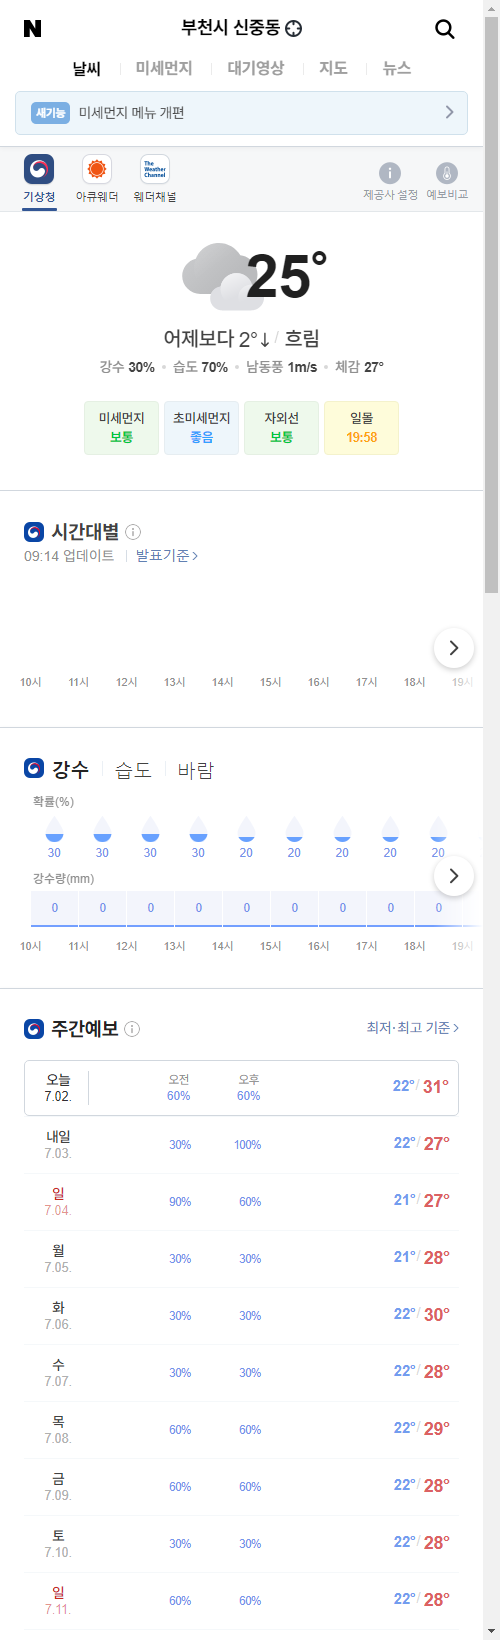
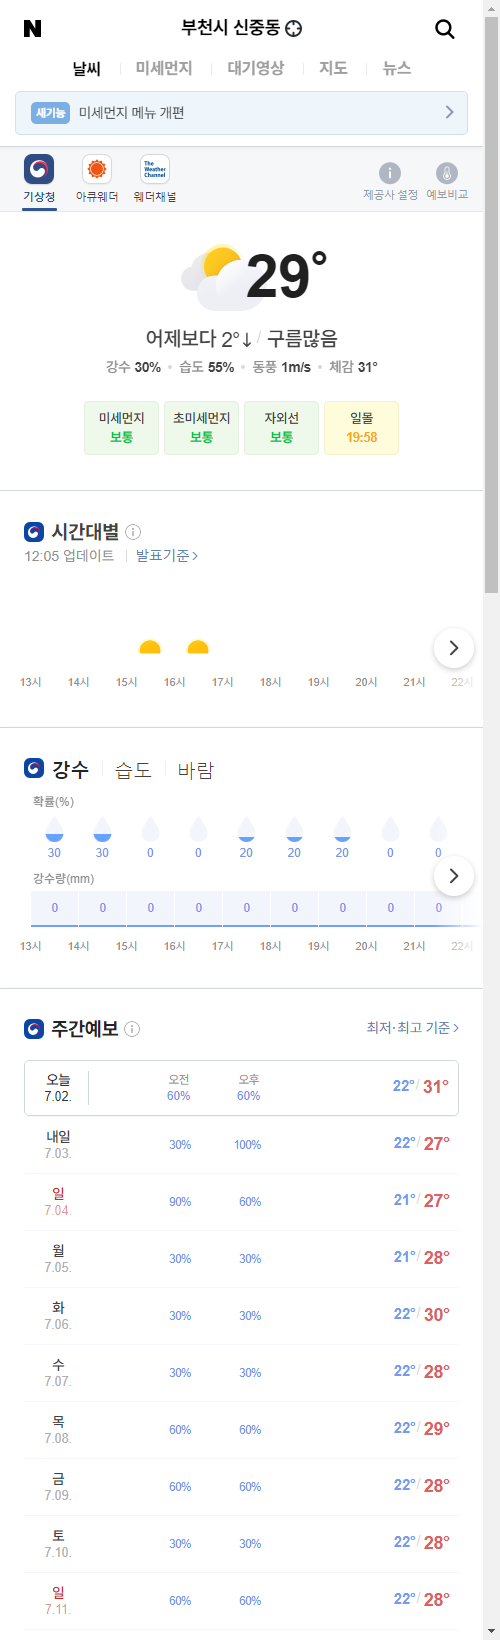
update result

diff --git a/README.md b/README.md
@@ -1,5 +1,5 @@
-##  2021-07-02 09:17:30   금요일 
-##### 날씨   -   어제보다 2° 낮아요흐림  
+##  2021-07-02 12:07:53   금요일 
+##### 날씨   -   어제보다 2° 낮아요구름많음  
 <center><img src="../img/naver_weather_week.png"></center>
 ----
 ----
@@ -16,14 +16,14 @@
 <tr align = "right" > <td>DOW</td><td>34,633.53</td><td>131.02</td><td><font size="3" color="red" >0.38%</font></td><td><font size="3" color="black">0</font></td><td><font size="3" color="black">0</font></td><td>0</td>  </tr>
 <tr align = "right" > <td>NASDAQ</td><td>14,522.38</td><td>18.43</td><td><font size="3" color="red" >0.13%</font></td><td><font size="3" color="black">0</font></td><td><font size="3" color="black">0</font></td><td>0</td>  </tr>
 <tr align = "right" > <td>S&P</td><td>4,319.94</td><td>22.44</td><td><font size="3" color="red" >0.52%</font></td><td><font size="3" color="black">0</font></td><td><font size="3" color="black">0</font></td><td>0</td>  </tr>
-<tr align = "right" > <td>SHANHAI</td><td>3,588.78</td><td>-2.41</td><td><font size="3" color="blue" >-0.07%</font></td><td><font size="3" color="black">0</font></td><td><font size="3" color="black">0</font></td><td>0</td>  </tr>
+<tr align = "right" > <td>SHANHAI</td><td>3,536.99</td><td>-51.79</td><td><font size="3" color="blue" >-1.44%</font></td><td><font size="3" color="black">0</font></td><td><font size="3" color="black">0</font></td><td>0</td>  </tr>
 <tr align = "right" > <td>INDIA</td><td>52,318.6</td><td>-164.11</td><td><font size="3" color="blue" >-0.31%</font></td><td><font size="3" color="black">0</font></td><td><font size="3" color="black">0</font></td><td>0</td>  </tr>
 </table>
 ----
 ##### 시장
 <table border="1" bordercolor="blue" align = "center" >
 <tr align = "right" > <td>Item</td><td>Price</td><td>Diff</td><td>Rate</td><td>Buy</td><td>Sell</td><td>...</td>  </tr>
-<tr align = "right" > <td>USD</td><td>1,135.0</td><td>2.0</td><td><font size="3" color="red">0.18%</font></td><td><font size="3" color="black">1,110</font></td><td><font size="3" color="black">0</font></td><td>0</td>  </tr>
+<tr align = "right" > <td>USD</td><td>1,134.0</td><td>1.8</td><td><font size="3" color="red">0.16%</font></td><td><font size="3" color="black">1,110</font></td><td><font size="3" color="black">0</font></td><td>0</td>  </tr>
 <tr align = "right" > <td>WTI</td><td>75.23</td><td>1.76</td><td><font size="3" color="red">2.39%</font></td><td><font size="3" color="black">29.0</font></td><td><font size="3" color="black">0</font></td><td>0</td>  </tr>
 <tr align = "right" > <td>GOLD</td><td>1,775.0</td><td>5.1</td><td><font size="3" color="red">0.28%</font></td><td><font size="3" color="black">0</font></td><td><font size="3" color="black">0</font></td><td>0</td>  </tr>
 </table>
@@ -32,25 +32,25 @@
 <table border="1" bordercolor="blue" align = "center" >
 <tr align = "right" > <td>Item</td><td>Price</td><td>Diff</td><td>Rate</td><td>Purchased</td><td>Sell</td><td>Buy</td>  </tr>
 <tr align = "right" > <td>한국 전력</td><td>24,700</td><td>100</td><td><font size="3" color="red">0.41%</font></td><td>25,720</td><td><font size="3" color="black">27,700</font></td><td><font size="3" color="black">20,700</font></td>  </tr>
-<tr align = "right" > <td>삼성엔지니어.</td><td>24,800</td><td>850</td><td><font size="3" color="red">3.55%</font></td><td>18,935</td><td><font size="3" color="black">20,000</font></td><td><font size="3" color="black">8,000</font></td>  </tr>
-<tr align = "right" > <td>CJ CGV</td><td>30,050</td><td>-150</td><td><font size="3" color="blue">-0.5%</font></td><td>34,895</td><td><font size="3" color="black">36,000</font></td><td><font size="3" color="black">0</font></td>  </tr>
-<tr align = "right" > <td>아모레퍼시픽</td><td>247,000</td><td>-1,000</td><td><font size="3" color="blue">-0.4%</font></td><td>235,350</td><td><font size="3" color="black">240,000</font></td><td><font size="3" color="black">130,000</font></td>  </tr>
-<tr align = "right" > <td>한화</td><td>31,450</td><td>50</td><td><font size="3" color="red">0.16%</font></td><td>25,550</td><td><font size="3" color="black">26,250</font></td><td><font size="3" color="black">26,250</font></td>  </tr>
-<tr align = "right" > <td>NAVER</td><td>409,500</td><td>-3,500</td><td><font size="3" color="blue">-0.85%</font></td><td>147,200</td><td><font size="3" color="black">386,000</font></td><td><font size="3" color="black">286,000</font></td>  </tr>
-<tr align = "right" > <td>LG 화학우</td><td>384,000</td><td>-1,500</td><td><font size="3" color="blue">-0.39%</font></td><td>202,490</td><td><font size="3" color="black">384,000</font></td><td><font size="3" color="black">384,000</font></td>  </tr>
-<tr align = "right" > <td>스튜디오드래.</td><td>96,400</td><td>-100</td><td><font size="3" color="blue">-0.1%</font></td><td>81,243</td><td><font size="3" color="black">85,200</font></td><td><font size="3" color="black">85,200</font></td>  </tr>
-<tr align = "right" > <td>QV미국IT</td><td>30,260</td><td>140</td><td><font size="3" color="red">0.46%</font></td><td>0</td><td><font size="3" color="black">30,000</font></td><td><font size="3" color="black">20,000</font></td>  </tr>
+<tr align = "right" > <td>삼성엔지니어.</td><td>24,500</td><td>550</td><td><font size="3" color="red">2.3%</font></td><td>18,935</td><td><font size="3" color="black">20,000</font></td><td><font size="3" color="black">8,000</font></td>  </tr>
+<tr align = "right" > <td>CJ CGV</td><td>29,850</td><td>-350</td><td><font size="3" color="blue">-1.16%</font></td><td>34,895</td><td><font size="3" color="black">36,000</font></td><td><font size="3" color="black">0</font></td>  </tr>
+<tr align = "right" > <td>아모레퍼시픽</td><td>247,500</td><td>-500</td><td><font size="3" color="blue">-0.2%</font></td><td>235,350</td><td><font size="3" color="black">240,000</font></td><td><font size="3" color="black">130,000</font></td>  </tr>
+<tr align = "right" > <td>한화</td><td>31,500</td><td>100</td><td><font size="3" color="red">0.32%</font></td><td>25,550</td><td><font size="3" color="black">26,250</font></td><td><font size="3" color="black">26,250</font></td>  </tr>
+<tr align = "right" > <td>NAVER</td><td>415,000</td><td>2,000</td><td><font size="3" color="red">0.48%</font></td><td>147,200</td><td><font size="3" color="black">386,000</font></td><td><font size="3" color="black">286,000</font></td>  </tr>
+<tr align = "right" > <td>LG 화학우</td><td>381,500</td><td>-4,000</td><td><font size="3" color="blue">-1.04%</font></td><td>202,490</td><td><font size="3" color="black">384,000</font></td><td><font size="3" color="orangered">384,000</font></td>  </tr>
+<tr align = "right" > <td>스튜디오드래.</td><td>95,700</td><td>-800</td><td><font size="3" color="blue">-0.83%</font></td><td>81,243</td><td><font size="3" color="black">85,200</font></td><td><font size="3" color="black">85,200</font></td>  </tr>
+<tr align = "right" > <td>QV미국IT</td><td>30,160</td><td>40</td><td><font size="3" color="red">0.13%</font></td><td>0</td><td><font size="3" color="black">30,000</font></td><td><font size="3" color="black">20,000</font></td>  </tr>
 <tr align = "right" > <td>삼성 전자우</td><td>73,200</td><td>-200</td><td><font size="3" color="blue">-0.27%</font></td><td>48,250</td><td><font size="3" color="black">56,000</font></td><td><font size="3" color="black">45,000</font></td>  </tr>
-<tr align = "right" > <td>LS</td><td>72,200</td><td>1,100</td><td><font size="3" color="red">1.55%</font></td><td>71,900</td><td><font size="3" color="black">82,000</font></td><td><font size="3" color="black">60,000</font></td>  </tr>
-<tr align = "right" > <td>한화에어로스.</td><td>49,350</td><td>2,200</td><td><font size="3" color="red">4.67%</font></td><td>25,700</td><td><font size="3" color="black">30,000</font></td><td><font size="3" color="black">24,000</font></td>  </tr>
-<tr align = "right" > <td>카카오</td><td>157,500</td><td>-2,500</td><td><font size="3" color="blue">-1.56%</font></td><td>405,500</td><td><font size="3" color="black">440,000</font></td><td><font size="3" color="orangered">400,000</font></td>  </tr>
-<tr align = "right" > <td>호텔 신라</td><td>96,300</td><td>400</td><td><font size="3" color="red">0.42%</font></td><td>72,800</td><td><font size="3" color="black">100,000</font></td><td><font size="3" color="black">70,000</font></td>  </tr>
-<tr align = "right" > <td>S-Oil</td><td>104,500</td><td>3,500</td><td><font size="3" color="red">3.47%</font></td><td>62,842</td><td><font size="3" color="black">100,000</font></td><td><font size="3" color="black">50,000</font></td>  </tr>
-<tr align = "right" > <td>LG전자</td><td>165,000</td><td>3,000</td><td><font size="3" color="red">1.85%</font></td><td>82,022</td><td><font size="3" color="black">100,000</font></td><td><font size="3" color="black">60,000</font></td>  </tr>
-<tr align = "right" > <td>KT&G</td><td>84,400</td><td>-100</td><td><font size="3" color="blue">-0.12%</font></td><td>80,400</td><td><font size="3" color="black">100,000</font></td><td><font size="3" color="black">70,000</font></td>  </tr>
-<tr align = "right" > <td>지역난방공사</td><td>43,450</td><td>-150</td><td><font size="3" color="blue">-0.34%</font></td><td>43,590</td><td><font size="3" color="black">60,000</font></td><td><font size="3" color="black">30,000</font></td>  </tr>
-<tr align = "right" > <td>KOEDX은행</td><td>7,590</td><td>5</td><td><font size="3" color="red">0.07%</font></td><td>5,178</td><td><font size="3" color="black">6,225</font></td><td><font size="3" color="black">6,225</font></td>  </tr>
-<tr align = "right" > <td>글로벌럭셔리</td><td>18,260</td><td>100</td><td><font size="3" color="red">0.55%</font></td><td>15,260</td><td><font size="3" color="black">20,000</font></td><td><font size="3" color="black">10,000</font></td>  </tr>
-<tr align = "right" > <td>한국금융지주</td><td>101,000</td><td>0</td><td><font size="3" color="black">0.0%</font></td><td>0</td><td><font size="3" color="black">82,000</font></td><td><font size="3" color="black">60,000</font></td>  </tr>
+<tr align = "right" > <td>LS</td><td>71,800</td><td>700</td><td><font size="3" color="red">0.98%</font></td><td>71,900</td><td><font size="3" color="black">82,000</font></td><td><font size="3" color="black">60,000</font></td>  </tr>
+<tr align = "right" > <td>한화에어로스.</td><td>48,400</td><td>1,250</td><td><font size="3" color="red">2.65%</font></td><td>25,700</td><td><font size="3" color="black">30,000</font></td><td><font size="3" color="black">24,000</font></td>  </tr>
+<tr align = "right" > <td>카카오</td><td>159,500</td><td>-500</td><td><font size="3" color="blue">-0.31%</font></td><td>405,500</td><td><font size="3" color="black">440,000</font></td><td><font size="3" color="orangered">400,000</font></td>  </tr>
+<tr align = "right" > <td>호텔 신라</td><td>95,800</td><td>-100</td><td><font size="3" color="blue">-0.1%</font></td><td>72,800</td><td><font size="3" color="black">100,000</font></td><td><font size="3" color="black">70,000</font></td>  </tr>
+<tr align = "right" > <td>S-Oil</td><td>105,000</td><td>4,000</td><td><font size="3" color="red">3.96%</font></td><td>62,842</td><td><font size="3" color="black">100,000</font></td><td><font size="3" color="black">50,000</font></td>  </tr>
+<tr align = "right" > <td>LG전자</td><td>164,500</td><td>2,500</td><td><font size="3" color="red">1.54%</font></td><td>82,022</td><td><font size="3" color="black">100,000</font></td><td><font size="3" color="black">60,000</font></td>  </tr>
+<tr align = "right" > <td>KT&G</td><td>84,300</td><td>-200</td><td><font size="3" color="blue">-0.24%</font></td><td>80,400</td><td><font size="3" color="black">100,000</font></td><td><font size="3" color="black">70,000</font></td>  </tr>
+<tr align = "right" > <td>지역난방공사</td><td>43,800</td><td>200</td><td><font size="3" color="red">0.46%</font></td><td>43,590</td><td><font size="3" color="black">60,000</font></td><td><font size="3" color="black">30,000</font></td>  </tr>
+<tr align = "right" > <td>KOEDX은행</td><td>7,585</td><td>0</td><td><font size="3" color="black">0.0%</font></td><td>5,178</td><td><font size="3" color="black">6,225</font></td><td><font size="3" color="black">6,225</font></td>  </tr>
+<tr align = "right" > <td>글로벌럭셔리</td><td>18,245</td><td>85</td><td><font size="3" color="red">0.47%</font></td><td>15,260</td><td><font size="3" color="black">20,000</font></td><td><font size="3" color="black">10,000</font></td>  </tr>
+<tr align = "right" > <td>한국금융지주</td><td>100,000</td><td>-1,000</td><td><font size="3" color="blue">-0.99%</font></td><td>0</td><td><font size="3" color="black">82,000</font></td><td><font size="3" color="black">60,000</font></td>  </tr>
 </table>
 ----
